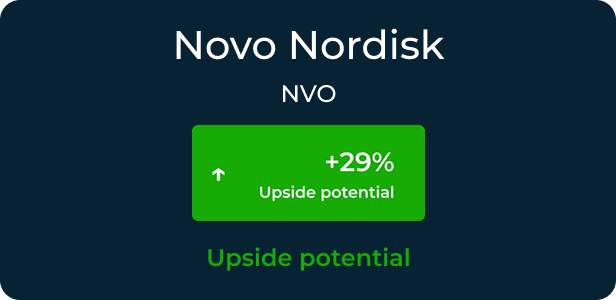
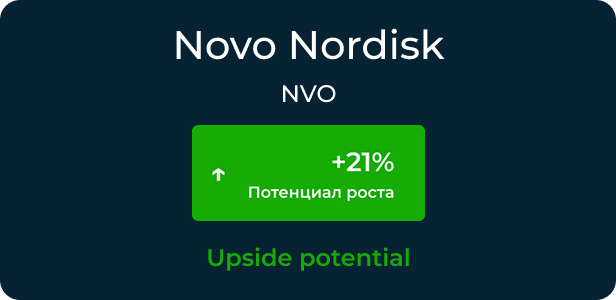
data update

Changed region(s): [[0.401, 0.6, 0.6477, 0.66], [0.5244, 0.51, 0.6169, 0.57]]

diff --git a/src/app/components/examples/examples.component.ts b/src/app/components/examples/examples.component.ts
@@ -43,16 +43,16 @@ export class ExamplesComponent implements OnInit {
     if (lang === "ru") {
       this.examples = [
         { company: "Walt Disney Company", ticker: "DIS", upside: 65, status: "Потенциал роста", cardStatus: "Недооценена", link: "/ru/stocks/nyse-dis/peter-lynch-fair-value-calculator" },
-        { company: "Vital Farms, Inc.", ticker: "VITL", upside: 194, status: "Потенциал роста", cardStatus: "Недооценена", link: "/ru/stocks/nasdaq-vitl/peter-lynch-fair-value-calculator" },
-        { company: "Novo Nordisk", ticker: "NVO", upside: 29, status: "Потенциал роста", cardStatus: "Недооценена", link: "/ru/stocks/nyse-nvo/peter-lynch-fair-value-calculator" },
-        { company: "Dr. Reddy's Laboratories Ltd", ticker: "RDY", upside: 34, status: "Потенциал роста", cardStatus: "Недооценена", link: "/ru/stocks/nyse-rdy/peter-lynch-fair-value-calculator" }
+        { company: "Vital Farms, Inc.", ticker: "VITL", upside: 162, status: "Потенциал роста", cardStatus: "Недооценена", link: "/ru/stocks/nasdaq-vitl/peter-lynch-fair-value-calculator" },
+        { company: "Novo Nordisk", ticker: "NVO", upside: 21, status: "Потенциал роста", cardStatus: "Недооценена", link: "/ru/stocks/nyse-nvo/peter-lynch-fair-value-calculator" },
+        { company: "Dr. Reddy's Laboratories Ltd", ticker: "RDY", upside: 33, status: "Потенциал роста", cardStatus: "Недооценена", link: "/ru/stocks/nyse-rdy/peter-lynch-fair-value-calculator" }
       ];
     } else {
       this.examples = [
         { company: "Walt Disney Company", ticker: "DIS", upside: 65, status: "Upside potential", cardStatus: "Undervalued", link: "/stocks/nyse-dis/peter-lynch-fair-value-calculator" },
-        { company: "Vital Farms, Inc.", ticker: "VITL", upside: 194, status: "Upside potential", cardStatus: "Undervalued", link: "/stocks/nasdaq-vitl/peter-lynch-fair-value-calculator" },
-        { company: "Novo Nordisk", ticker: "NVO", upside: 29, status: "Upside potential", cardStatus: "Undervalued", link: "/stocks/nyse-nvo/peter-lynch-fair-value-calculator" },
-        { company: "Dr. Reddy's Laboratories Ltd", ticker: "RDY", upside: 34, status: "Upside potential", cardStatus: "Undervalued", link: "/stocks/nyse-rdy/peter-lynch-fair-value-calculator" }
+        { company: "Vital Farms, Inc.", ticker: "VITL", upside: 162, status: "Upside potential", cardStatus: "Undervalued", link: "/stocks/nasdaq-vitl/peter-lynch-fair-value-calculator" },
+        { company: "Novo Nordisk", ticker: "NVO", upside: 21, status: "Upside potential", cardStatus: "Undervalued", link: "/stocks/nyse-nvo/peter-lynch-fair-value-calculator" },
+        { company: "Dr. Reddy's Laboratories Ltd", ticker: "RDY", upside: 33, status: "Upside potential", cardStatus: "Undervalued", link: "/stocks/nyse-rdy/peter-lynch-fair-value-calculator" }
       ];
     }
   }
